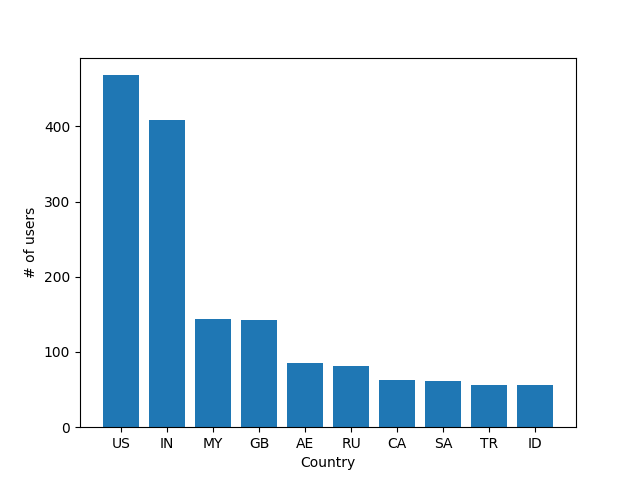
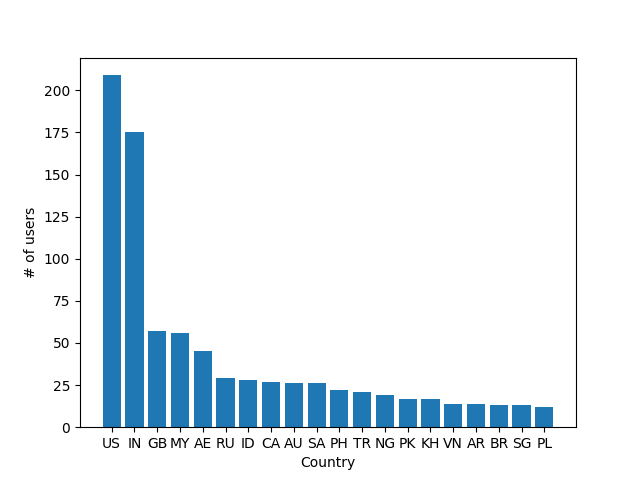
Hotfix: show number of users instead of number of transactions on fourth plot

diff --git a/src/categorizer.py b/src/categorizer.py
@@ -25,10 +25,14 @@ def categorize_by_countries():
     transactions['Country'] = transactions['Country'].astype('str')
     # grouping data by users: finding out amount of their subscriptions and registration dates
     grouped = transactions.groupby('Country')
+
     # aggregating transcations in a table with columns for ID, number of subscriptions for every customer, and registation date, making it easier to later calculate total amounts
     aggregated = grouped.agg({'Country': ['count', 'max']})['Country'].rename(
         columns={"max": "registration", "count": "subscriptions"})
-    sorted_by_popularity = grouped.agg({'Country': ['count', 'max']})['Country'].sort_values('count', ascending=False)
-    population = sorted_by_popularity['count']
-    country = sorted_by_popularity['max']
+
+    sorted_by_popularity = (transactions.groupby('Country').nunique())['Subscriber ID'].sort_values(ascending=False)#grouped.agg({'Country': ['count', 'max']})['Country'].sort_values('count', ascending=False)
+
+    population = sorted_by_popularity.values
+    country = sorted_by_popularity.index
     return population, country
+

diff --git a/src/graph_stories.py b/src/graph_stories.py
@@ -22,7 +22,7 @@ class GraphStory():
 
     def explore_popularity_of_the_app_across_countries(self):
         population, country = categorize_by_countries()
-        presentation.tell_story_about_popularity_of_app_comparing_countries(population[:10], country[:10])#([100,56,33],['US','USD','UKR']))
+        presentation.tell_story_about_popularity_of_app_comparing_countries(population[:20], country[:20])#([100,56,33],['US','USD','UKR']))
 
     def explore_lifetime_value_in_united_states(self):
         us_ltv = CustomerLifetimeValue("bycountries/US.csv")
